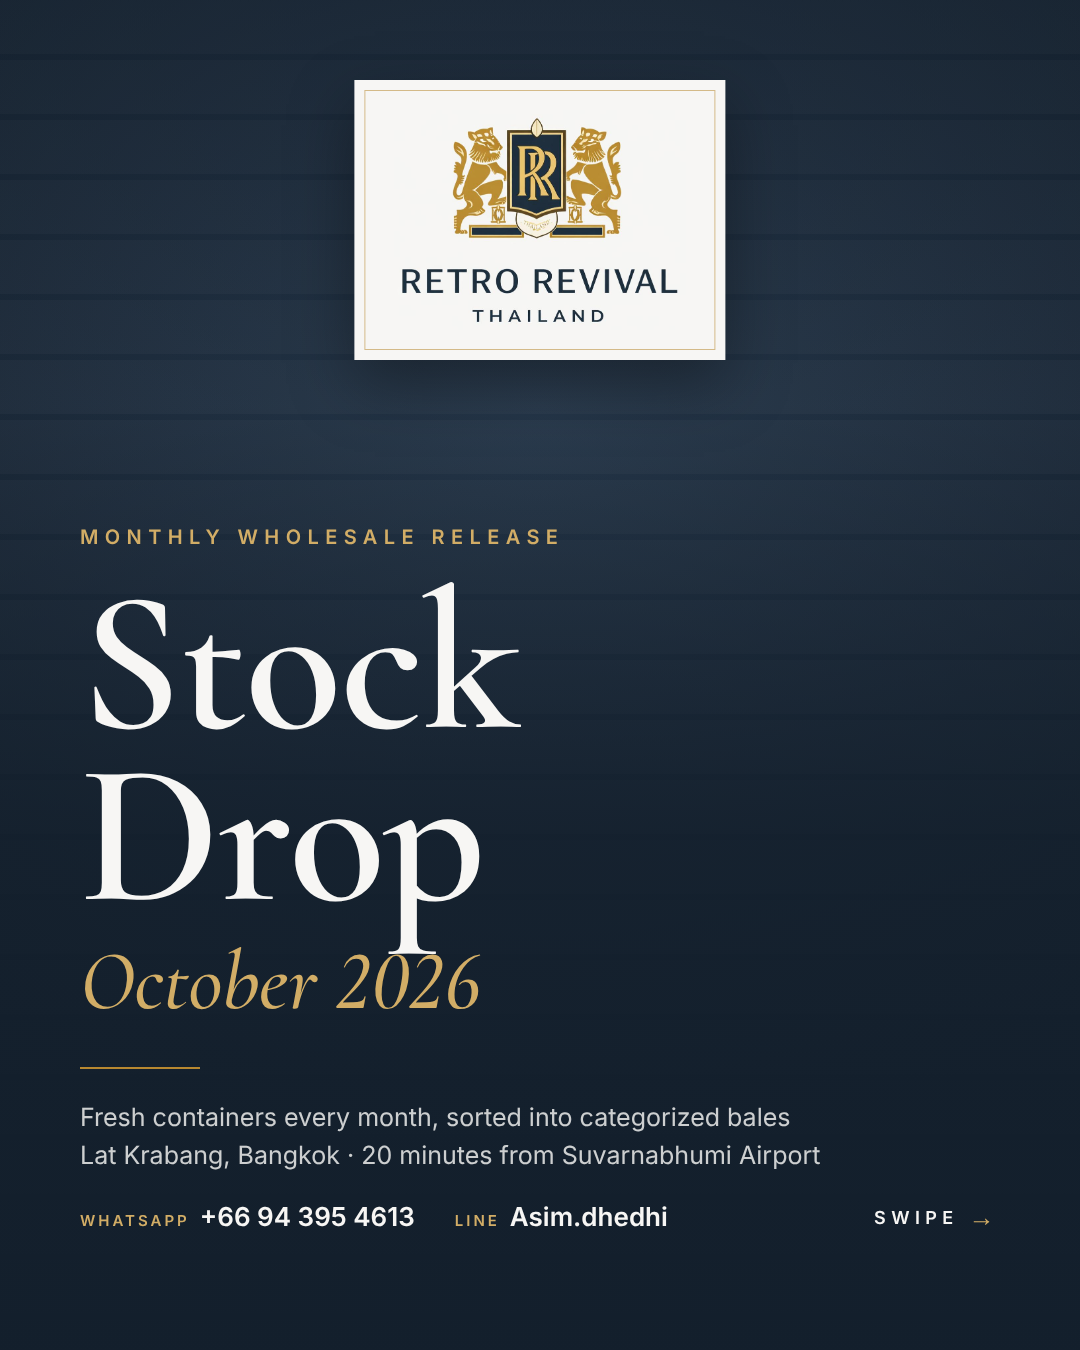
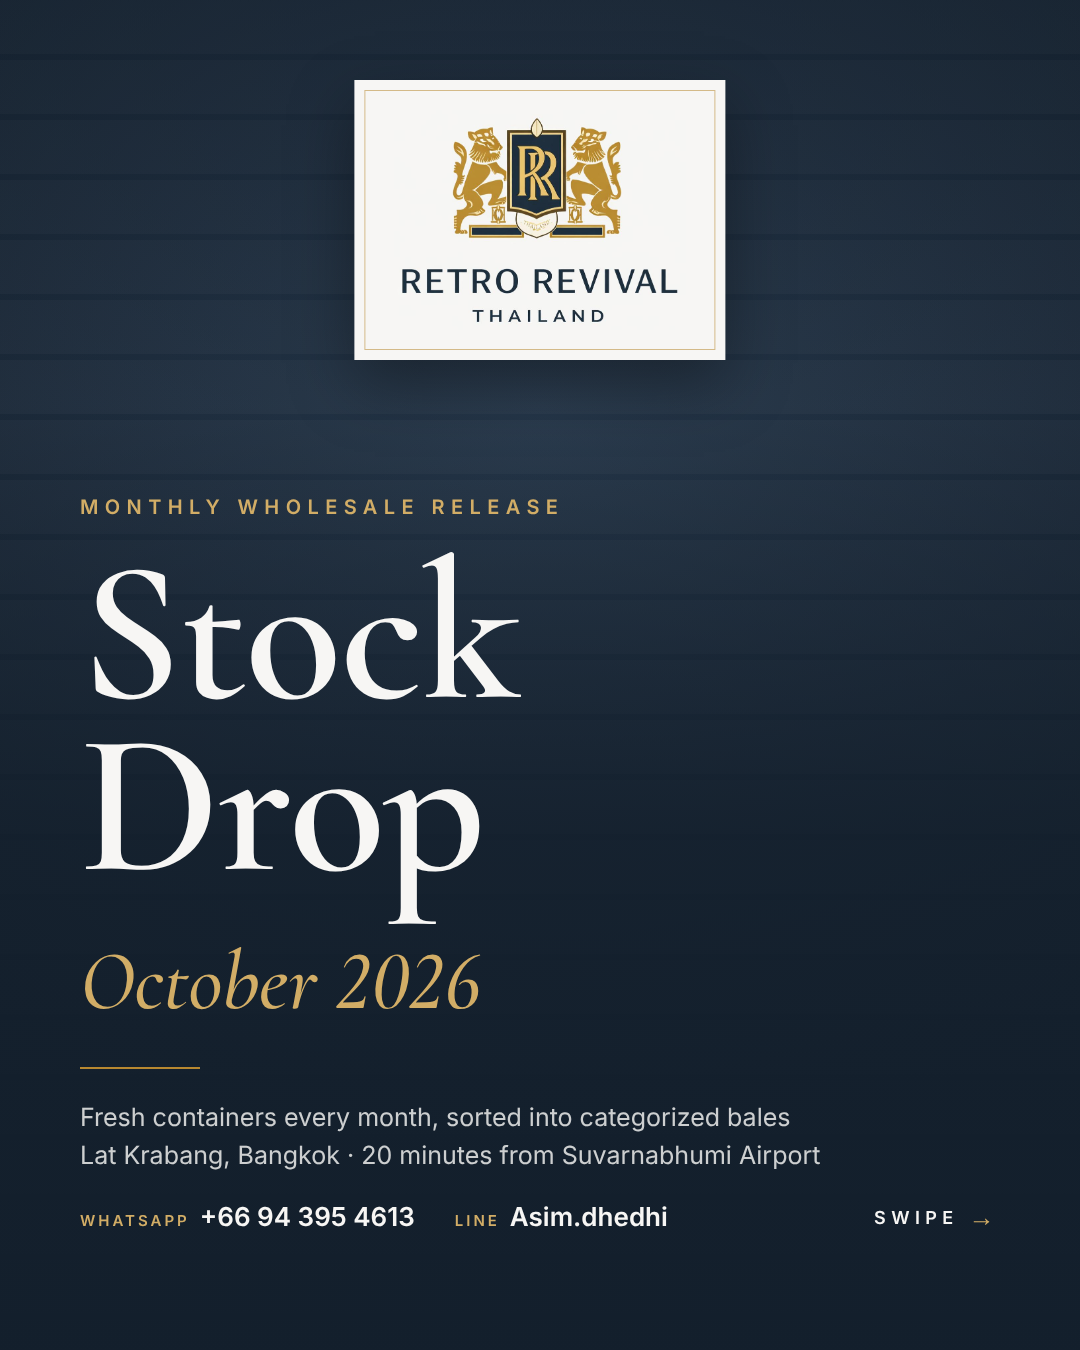
Run critique and social skills on the October Stock Drop
Add the 5-dimension critique report (6.4/10) and the Instagram caption.
Fix the cover collision the critique flagged, and track the remaining
findings in the to-dos. Reports and captions live outside output/,
which is rebuilt on every run.

Claude-Session: https://claude.ai/code/session_01FjARQ1TdBw1wsppj9LT4t6

Changed region(s): [[0.0611, 0.3733, 0.4889, 0.7156], [0.2139, 0.3733, 0.5194, 0.4356]]

diff --git a/projects/stock-drop/reviews/2026-10-critique.html b/projects/stock-drop/reviews/2026-10-critique.html
@@ -1,0 +1,54 @@
+<!doctype html>
+<html lang="en"><head><meta charset="utf-8"><meta name="viewport" content="width=device-width,initial-scale=1">
+<title>Critique · Stock Drop October 2026</title>
+<link rel="stylesheet" href="https://fonts.googleapis.com/css2?family=Cormorant+Garamond:wght@500;600&family=Inter:wght@400;500;600&display=swap">
+<style>
+:root { --bg:#f3f1ec; --panel:#fbfaf7; --ink:#1c2c3c; --muted:#5d6a78; --line:rgba(28,44,60,.14); --gold:#8a6420; --fill:rgba(184,136,48,.28); --serif:"Cormorant Garamond",Georgia,serif; --sans:"Inter",system-ui,-apple-system,"Segoe UI",sans-serif; color-scheme: light; }
+* { box-sizing:border-box; }
+body { margin:0; background:var(--bg); color:var(--ink); font:400 15px/1.55 var(--sans); }
+.wrap { max-width:1040px; margin:0 auto; padding-inline:20px; padding-block:28px 56px; }
+.eyebrow { font:600 11px/1 var(--sans); letter-spacing:.24em; text-transform:uppercase; color:var(--gold); }
+h1 { margin:8px 0 6px; font:600 clamp(32px,5vw,46px)/1.05 var(--serif); text-wrap:balance; }
+.verdict { margin:0; max-width:62ch; color:var(--muted); }
+.top { display:grid; grid-template-columns:minmax(0,1fr) minmax(0,480px); gap:24px; align-items:center; margin-top:20px; }
+@media (max-width:760px) { .top { grid-template-columns:minmax(0,1fr); } }
+.mean b { display:block; font:600 64px/1 var(--serif); }
+.mean span { color:var(--muted); }
+svg { width:100%; max-width:480px; height:auto; }
+.ring { fill:none; stroke:var(--line); }
+.shape { fill:var(--fill); stroke:var(--gold); stroke-width:2; }
+.dot { fill:var(--gold); }
+.lab { font:600 13px var(--sans); fill:var(--ink); } .sc { fill:var(--gold); }
+.cards { display:grid; grid-template-columns:repeat(2,minmax(0,1fr)); gap:16px; margin-top:28px; }
+@media (max-width:760px) { .cards { grid-template-columns:minmax(0,1fr); } }
+.card { background:var(--panel); border:1px solid var(--line); border-radius:6px; padding:20px; min-width:0; }
+.card header { display:flex; align-items:baseline; gap:10px; }
+.card h3 { margin:0; font:600 26px/1 var(--serif); }
+.score { margin-left:auto; font:600 30px/1 var(--sans); font-variant-numeric:tabular-nums; } .score small { font-size:14px; color:var(--muted); }
+.band { font:600 11px/1 var(--sans); letter-spacing:.14em; text-transform:uppercase; color:var(--gold); }
+.card p { margin:12px 0; } code { font-size:13px; background:rgba(28,44,60,.06); padding:1px 4px; border-radius:3px; }
+.card ul { margin:0; padding-left:18px; color:var(--muted); } .card b { color:var(--ink); }
+.lists { display:grid; grid-template-columns:repeat(3,minmax(0,1fr)); gap:16px; margin-top:28px; }
+@media (max-width:900px) { .lists { grid-template-columns:minmax(0,1fr); } }
+.lists section { border-top:2px solid var(--ink); padding-top:12px; min-width:0; }
+.lists h2 { margin:0 0 8px; font:600 24px/1 var(--serif); }
+.lists ul { list-style:none; margin:0; padding:0; display:grid; gap:10px; }
+.lists label { display:flex; gap:8px; align-items:flex-start; cursor:pointer; }
+.lists input { margin-top:4px; accent-color:var(--gold); }
+footer { margin-top:32px; color:var(--muted); font-size:13px; }
+</style></head><body><div class="wrap">
+<div class="eyebrow">Critique · 5-dimension review</div>
+<h1>Stock Drop, October 2026</h1>
+<p class="verdict">The direction is clear and consistent. One collision on the cover and small text on the list slides keep it short of premium.</p>
+<div class="top">
+<div class="mean"><b>6.4<small style="font-size:22px">/10</small></b><span>Average of five scores. Reviewed: 7 slides at 1080 × 1350, from <code>projects/stock-drop/output/2026-10/</code>.</span></div>
+<svg viewBox="-70 0 560 400" role="img" aria-label="Radar chart of the five scores"><polygon points="210.0,172.0 236.6,191.3 226.5,222.7 193.5,222.7 183.4,191.3" class="ring"/><polygon points="210.0,144.0 263.3,182.7 242.9,245.3 177.1,245.3 156.7,182.7" class="ring"/><polygon points="210.0,116.0 289.9,174.0 259.4,268.0 160.6,268.0 130.1,174.0" class="ring"/><polygon points="210.0,88.0 316.5,165.4 275.8,290.6 144.2,290.6 103.5,165.4" class="ring"/><polygon points="210.0,60.0 343.1,156.7 292.3,313.3 127.7,313.3 76.9,156.7" class="ring"/><line x1="210" y1="200" x2="210.0" y2="60.0" class="ring"/><line x1="210" y1="200" x2="343.1" y2="156.7" class="ring"/><line x1="210" y1="200" x2="292.3" y2="313.3" class="ring"/><line x1="210" y1="200" x2="127.7" y2="313.3" class="ring"/><line x1="210" y1="200" x2="76.9" y2="156.7" class="ring"/><polygon points="210.0,88.0 303.2,169.7 259.4,268.0 160.6,268.0 143.4,178.4" class="shape"/><circle cx="210.0" cy="88.0" r="4" class="dot"/><circle cx="303.2" cy="169.7" r="4" class="dot"/><circle cx="259.4" cy="268.0" r="4" class="dot"/><circle cx="160.6" cy="268.0" r="4" class="dot"/><circle cx="143.4" cy="178.4" r="4" class="dot"/><text x="210.0" y="37.0" text-anchor="middle" class="lab">Direction <tspan class="sc">8</tspan></text><text x="369.8" y="153.1" text-anchor="start" class="lab">Hierarchy <tspan class="sc">7</tspan></text><text x="308.7" y="340.9" text-anchor="start" class="lab">Detail <tspan class="sc">6</tspan></text><text x="111.3" y="340.9" text-anchor="end" class="lab">Function <tspan class="sc">6</tspan></text><text x="50.2" y="153.1" text-anchor="end" class="lab">Originality <tspan class="sc">5</tspan></text></svg>
+</div>
+<div class="cards"><article class="card"><header><h3>Direction</h3><span class="score">8<small>/10</small></span><span class="band">Strong</span></header><p>One direction throughout. The navy, gold and off-white palette comes straight from the logo, with Cormorant Garamond for headings and Inter for data, and every list slide (02–07) uses the same template. One drift: the footer logo (<code>.footer .logo</code>, 72px) reads as a small pasted tile, while the cover gives the logo a framed plate with a gold rule.</p><ul><li><b>Keep</b> The single list template.</li><li><b>Fix</b> Give the footer logo the cover plate’s treatment, or remove it.</li></ul></article><article class="card"><header><h3>Hierarchy</h3><span class="score">7<small>/10</small></span><span class="band">Strong</span></header><p>Clear tiers on every list slide: the section name (54px serif) first, then the bale line (24px Inter), then the quantity at the right edge. Two things compete. The grey “BALES” label appears 17 times across 6 slides, once per section, so slide 03 has five identical labels. And the bold gold packing tags (“200 PCS”) pull the eye almost as much as the descriptions.</p><ul><li><b>Keep</b> Section name → line → quantity.</li><li><b>Fix</b> Show “BALES” once per slide, or drop it.</li></ul></article><article class="card"><header><h3>Detail</h3><span class="score">6<small>/10</small></span><span class="band">Functional</span></header><p>Mostly clean: leaders and right-aligned figures line up, and lining numerals fixed the dropped 3. Two visible misses. On the cover, the descender of the “p” in “Drop” (200px, line-height 0.86) runs into “October 2026”, which sits only 18px below (<code>.cover-text .month</code>). The footer wordmark inside the 72px logo is about 11px tall, so it’s unreadable. Slide 07 also leaves the lower 60% empty.</p><ul><li><b>Keep</b> Leader and figure alignment.</li><li><b>Fix</b> Widen the gap under “Drop” so the “p” clears the date.</li></ul></article><article class="card"><header><h3>Function</h3><span class="score">6<small>/10</small></span><span class="band">Functional</span></header><p>It does its main job: every section is on one slide, and WhatsApp, LINE and Instagram are on every slide. But at <code>--row: 54px</code> the bale lines render at about 24px on a 1080px slide, roughly 8.5pt on a phone and under the social skill’s ~28pt minimum. Packing (17px) and “BALES” (14px) are smaller still. The cover also doesn’t say what’s inside, so as a thumbnail it gives buyers no reason to swipe.</p><ul><li><b>Keep</b> Contacts in every footer.</li><li><b>Fix</b> Decide on text size: 7 slides at 24px, or 8–9 slides with bigger text.</li></ul></article><article class="card"><header><h3>Originality</h3><span class="score">5<small>/10</small></span><span class="band">Functional</span></header><p>A catalogue or menu-style table with dotted leaders and serif section names. It suits a premium wholesaler and reads more professional than the usual flat bale graphics, but nothing in it is unexpected. For a monthly stock list, that restraint is the right call.</p><ul><li><b>Keep</b> The restraint.</li><li><b>Quick win</b> Optional: name the biggest sections under the cover title.</li></ul></article></div>
+<div class="lists">
+<section><h2>Keep</h2><ul><li><label><input type="checkbox"> <span>Palette and type pairing taken from the logo: navy, gold, off-white; Cormorant Garamond with Inter.</span></label></li><li><label><input type="checkbox"> <span>Each section whole on one slide, with the emptiest slide last.</span></label></li><li><label><input type="checkbox"> <span>WhatsApp, LINE and Instagram in the footer of every list slide.</span></label></li><li><label><input type="checkbox"> <span>Lining figures in headings and Inter quantities. No more dropped 3s.</span></label></li></ul></section>
+<section><h2>Fix</h2><ul><li><label><input type="checkbox"> <span><b>P0</b> Cover: increase the gap under “Drop” (<code>.cover-text .month</code> margin-top 18px → about 48px) so the “p” clears “October 2026”.</span></label></li><li><label><input type="checkbox"> <span><b>P1</b> Text size: 24px lines are below the ~28pt guideline. Choose between 7 slides as now or 8–9 slides with larger rows.</span></label></li><li><label><input type="checkbox"> <span><b>P1</b> Footer logo: make it about 104px tall so the wordmark is readable, or remove it from list slides (the handle already names the brand).</span></label></li><li><label><input type="checkbox"> <span><b>P1</b> “BALES” label: show it once per slide (top right) instead of on all 17 section heads.</span></label></li></ul></section>
+<section><h2>Quick wins</h2><ul><li><label><input type="checkbox"> <span>Packing tags: 17px → 19px, and a slightly lighter weight so they stop competing with the descriptions.</span></label></li><li><label><input type="checkbox"> <span>Even out the free space across slides 02–07 so slide 07 doesn’t end two-thirds empty.</span></label></li><li><label><input type="checkbox"> <span>Optional cover hook: one line naming the biggest sections (for example “Jeans · Broken · Printed T-shirts · Men Shirts and more”). No numbers.</span></label></li></ul></section>
+</div>
+<footer>Reviewer: Claude, using the critique skill (OpenDesign) · 2026-10-10 · Bands: 0–4 Broken · 5–6 Functional · 7–8 Strong · 9–10 Exceptional</footer>
+</div></body></html>

diff --git a/projects/stock-drop/template/styles.css b/projects/stock-drop/template/styles.css
@@ -98,7 +98,7 @@ body { background: #555; font-family: var(--sans); color: var(--navy); }
   letter-spacing: -0.01em; color: var(--cream);
 }
 .cover-text .month {
-  margin-top: 18px; font: italic 500 84px/1 var(--serif); font-variant-numeric: lining-nums; color: var(--gold-light);
+  margin-top: 48px; font: italic 500 84px/1 var(--serif); font-variant-numeric: lining-nums; color: var(--gold-light);
 }
 .cover-text .rule { width: 120px; height: 2px; background: var(--gold); margin: 44px 0 30px; }
 .cover-text .pillars {

diff --git a/projects/stock-drop/captions/2026-10.md b/projects/stock-drop/captions/2026-10.md
@@ -1,0 +1,31 @@
+# Caption: October 2026
+
+Written with the `social` skill. Copy everything between the lines into Instagram.
+
+---
+
+October Stock Drop. Sorted vintage bales from our Bangkok warehouse: Levi's and Lee & Wrangler jeans, Carhartt and Dickies broken bales, printed and branded T-shirts, men's shirts, pants and more.
+
+Every bale is listed in the slides with its packing and the number available. Swipe through, then message us on WhatsApp or LINE with the bales you want.
+
+WhatsApp: +66 94 395 4613
+LINE: Asim.dhedhi
+
+Warehouse C5, Krungthep Kreetha Road (New Cut), Lat Krabang, Bangkok. 20 minutes from Suvarnabhumi Airport.
+
+#vintagewholesale #vintagebales #bangkokvintage #thailandvintage #ขายส่งเสื้อผ้ามือสอง
+
+---
+
+## Why it's written this way
+
+- **The first ~125 characters show before "more".** They hold the hook and the brands buyers search for: Levi's, Carhartt, Dickies.
+- **The caption is what Instagram search reads**, not the slides. That's why it names the main brands and bale types.
+- **One call to action:** message on WhatsApp or LINE. The numbers are written out because tapping an image does nothing.
+- **5 hashtags**, the skill's limit for Instagram. The last one is Thai ("wholesale second-hand clothes") for local resellers.
+- **No invented claims.** Every brand and category comes from the October sheet. It doesn't say the stock has arrived, because "ETA141026" may mean it arrives on 14 October.
+
+## Optional
+
+- **Thai line:** add one Thai sentence for local resellers, written or checked by the client's Thai presenter.
+- **Alt text:** in Instagram's advanced settings, give each slide alt text listing its sections, for example "Retro Revival Stock Drop October 2026: Jeans". It helps search and screen readers.

diff --git a/to-dos/stock-drop.md b/to-dos/stock-drop.md
@@ -10,7 +10,10 @@ Project: [projects/stock-drop](../projects/stock-drop/README.md)
 
 ## Improvements
 
-- [ ] **[Hammad]** Decide on text size: list lines are about 24px to fit 7 slides, below the roughly 28pt guideline. Options: keep it, allow 8–9 slides, or split the drop into two posts ([skills review](../docs/research/claude-skills.md#whats-useful-now))
+From the [October critique](../projects/stock-drop/reviews/2026-10-critique.html):
 
+- [ ] **[Hammad]** Footer logo: make it bigger (readable) or remove it from list slides
+- [ ] **[Hammad]** "BALES" label: show it once per slide instead of on every section
+- [ ] **[Hammad]** Review the caption: [captions/2026-10.md](../projects/stock-drop/captions/2026-10.md)
+- [ ] **[Hammad]** Decide on text size: list lines are about 24px to fit 7 slides, below the roughly 28pt guideline. Options: keep it, allow 8–9 slides, or split the drop into two posts ([skills review](../docs/research/claude-skills.md#whats-useful-now))
 - [ ] **[Hammad]** Upload the original `ETA141026.xlsx` to `projects/stock-drop/data/` on GitHub. The file on record is a CSV rebuilt from the sheet's text
-- [ ] **[Claude]** Write the Instagram caption and hashtags for the post

diff --git a/projects/stock-drop/README.md b/projects/stock-drop/README.md
@@ -35,7 +35,9 @@ A monthly Instagram carousel that shows the latest inventory. It is meant to bec
    npm install            # first time only
    npm run build -- data/2026-11.xlsx
    ```
-3. Check `output/2026-11/overview.png`, then post `01.png` onward in order.
+3. Check `output/2026-11/overview.png`.
+4. Run the `critique` skill (report in `reviews/`) and the `social` skill (caption in `captions/`).
+5. Post `01.png` onward in order, with the caption.
 
 ### Sheet format
 
@@ -96,7 +98,9 @@ Contact details come from `src/brand.mjs`. Keep that file in sync with the [busi
 ```
 stock-drop/
 ├── data/        # one inventory sheet per month (.xlsx or .csv)
-├── src/         # build script and contact details
+├── src/         # build script, contact details, spelling fixes
 ├── template/    # styles and fonts
-└── output/      # built slides, one folder per month
+├── output/      # built slides, one folder per month (rebuilt each run)
+├── captions/    # Instagram caption per month (social skill)
+└── reviews/     # design critique per month (critique skill)
 ```

diff --git a/.claude/skills/README.md b/.claude/skills/README.md
@@ -23,7 +23,7 @@ These skills are generic. Where they conflict with [CLAUDE.md](../../CLAUDE.md),
 ## Local notes
 
 - **Brand context:** the marketing skills read [.claude/product-marketing.md](../product-marketing.md) first. It points to the docs that hold each fact. Update the docs, not that file.
-- **`critique`:** it was written for the OpenDesign app. Here, point it at the slide PNGs in `projects/stock-drop/output/<month>/` and save the report as `critique.html` in the same folder.
+- **`critique`:** it was written for the OpenDesign app. Here, point it at the slide PNGs in `projects/stock-drop/output/<month>/` and save the report as `projects/stock-drop/reviews/<month>-critique.html`. The output folder is wiped on every build.
 
 ## Updating
 
